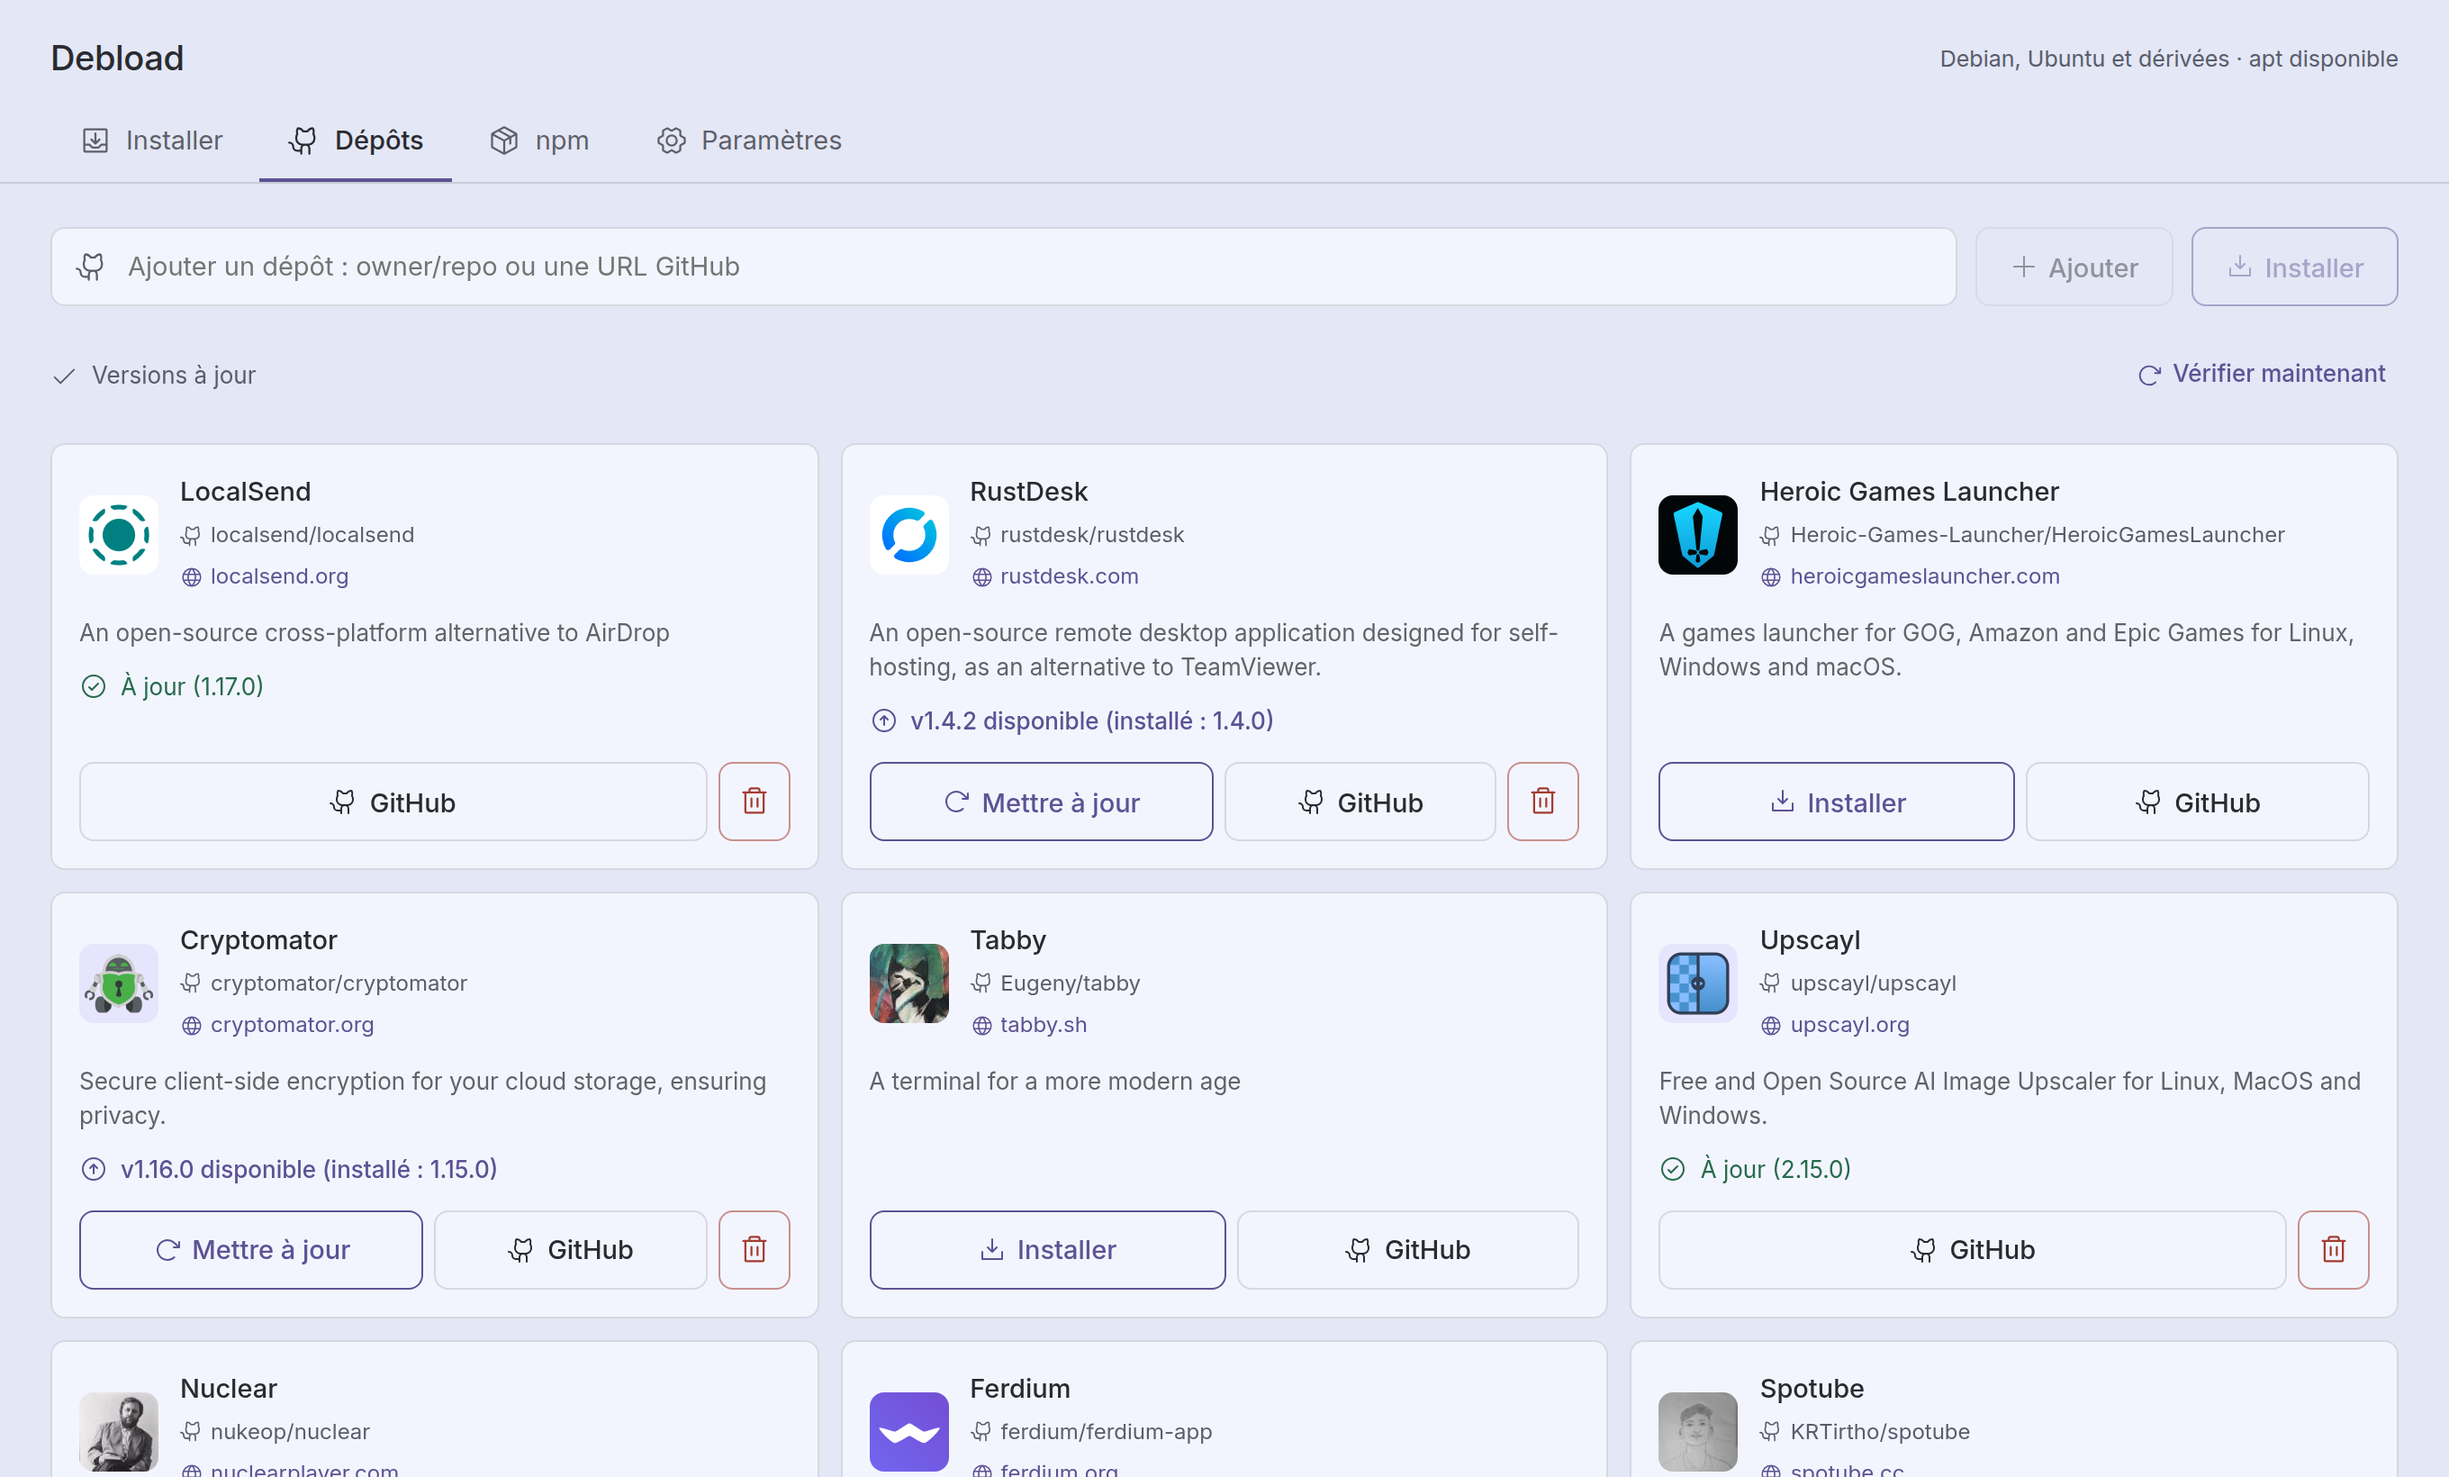
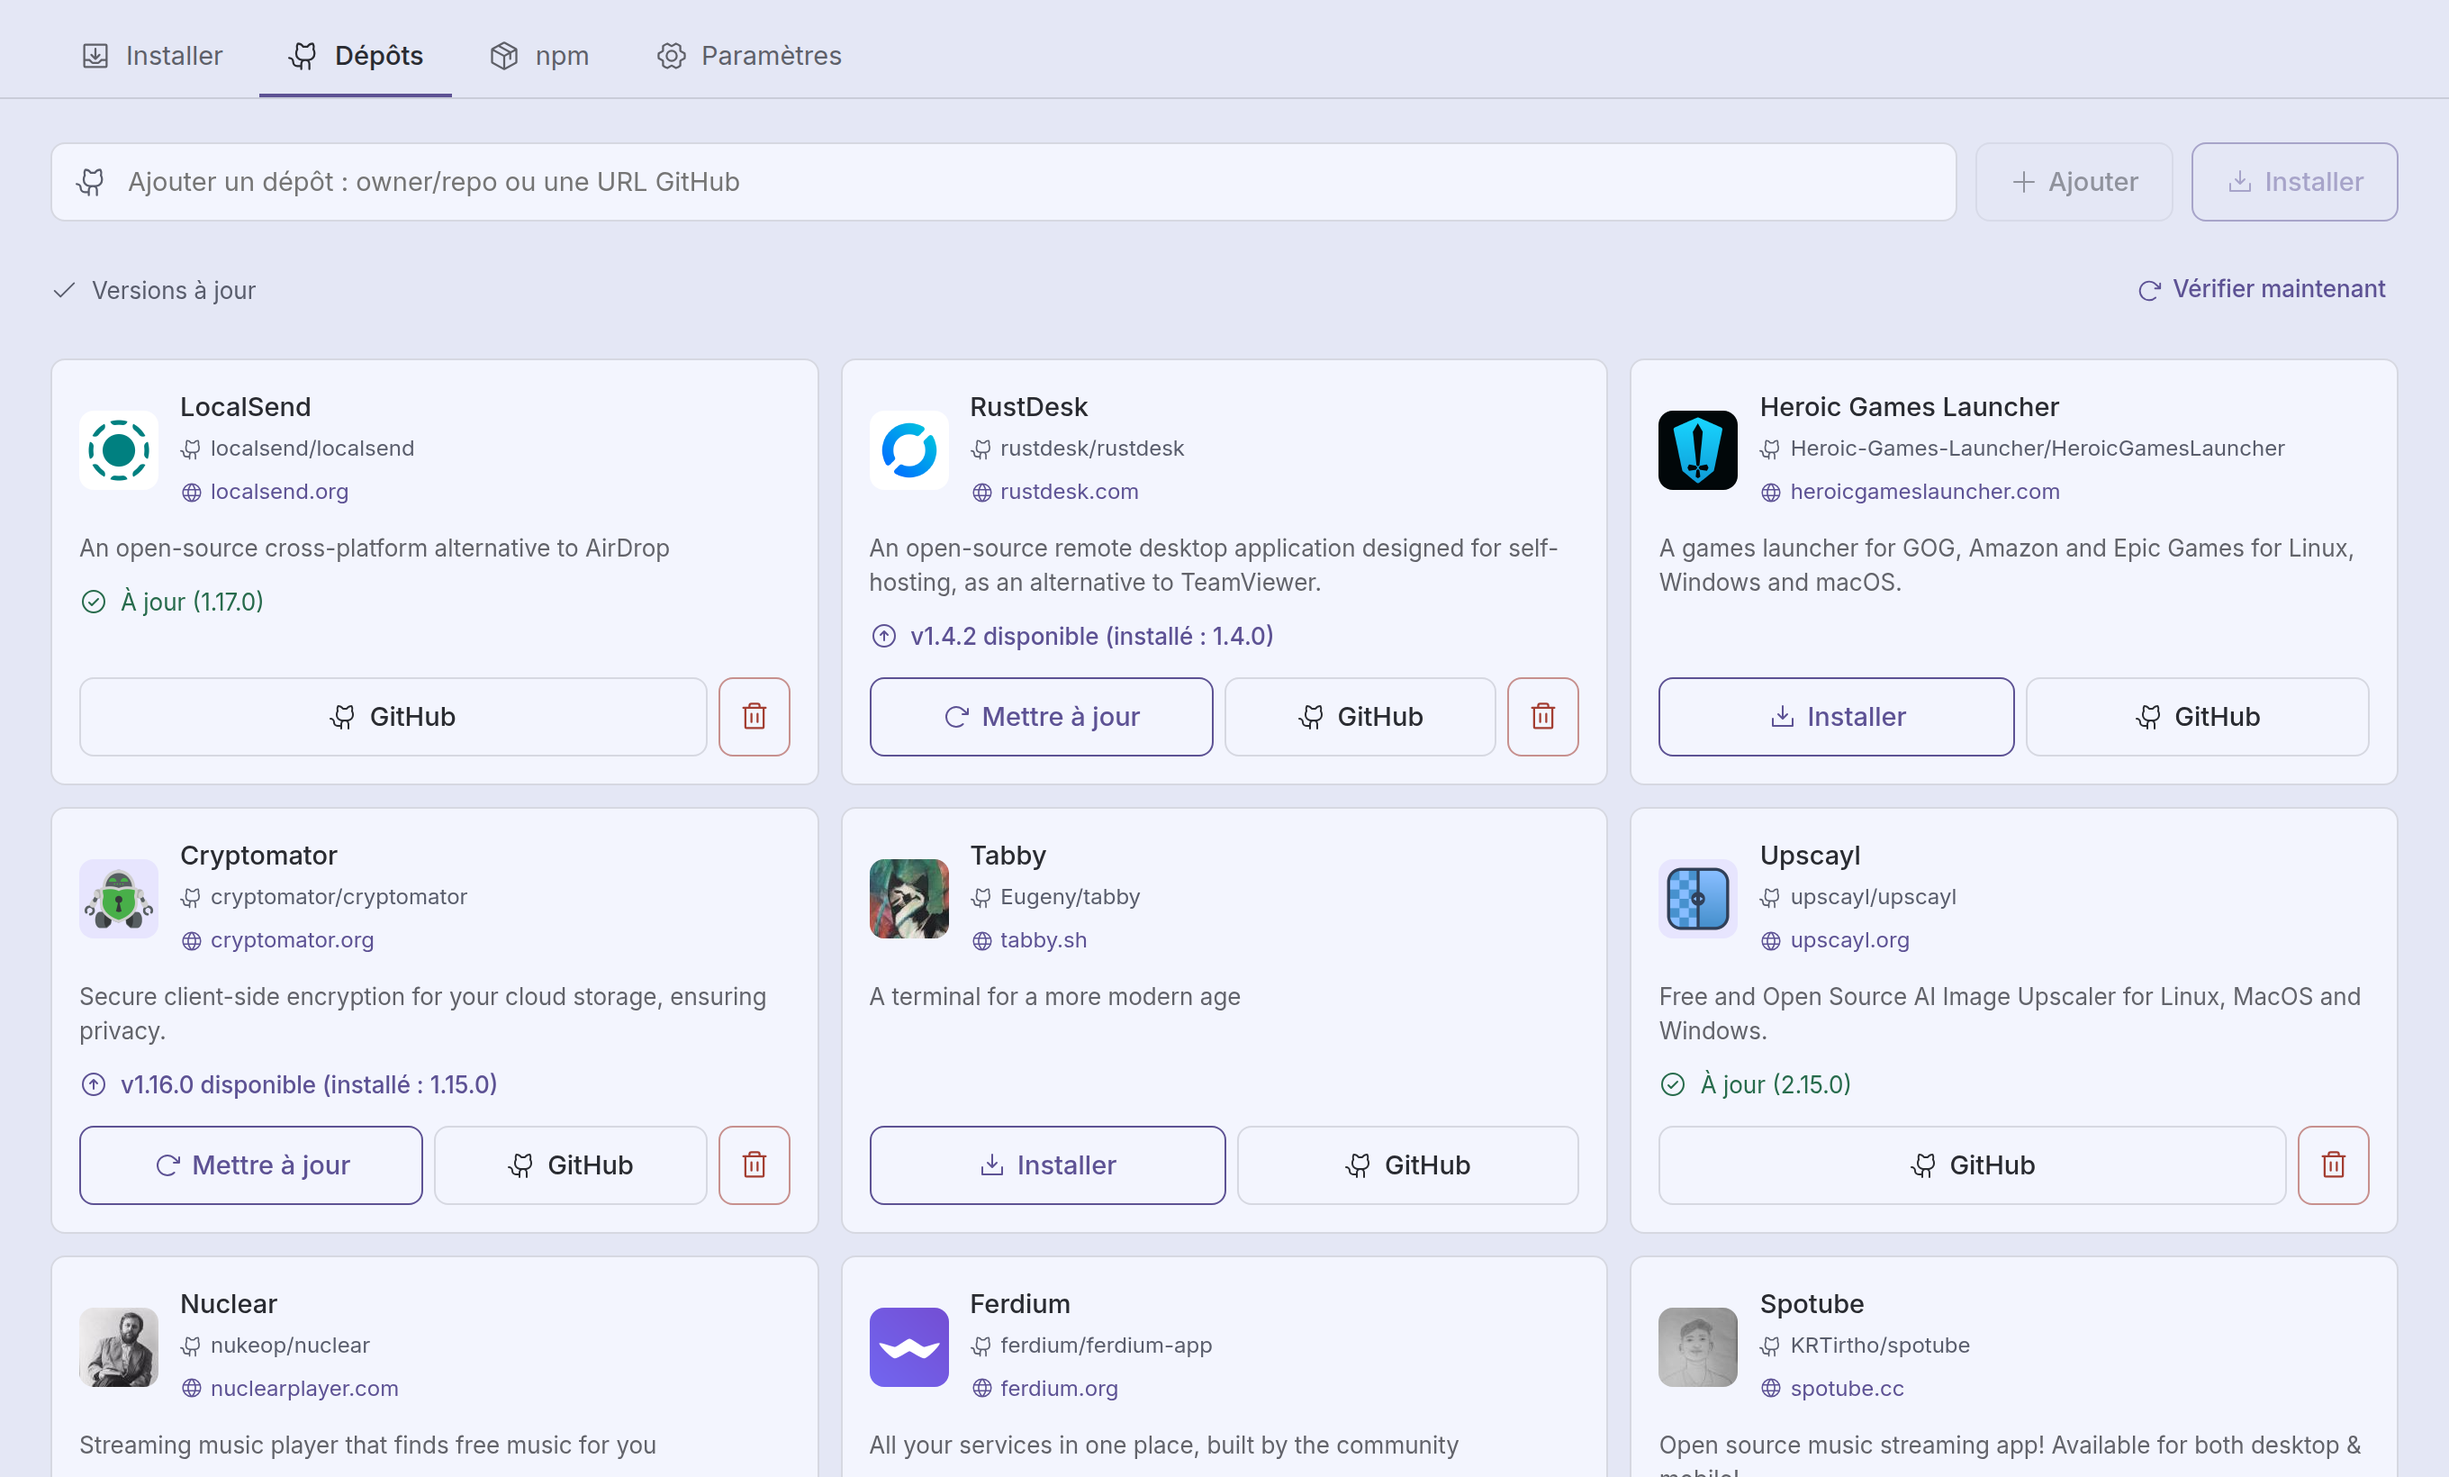
docs: captures et README à jour, sans le bandeau et avec le choix du thème
Claude-Session: https://claude.ai/code/session_01N6WiayjCrhPByJDTSFzrYk

diff --git a/README.md b/README.md
@@ -21,7 +21,7 @@
   <img src="docs/screenshots/depots.png" alt="Le catalogue de dépôts" width="100%">
 </p>
 
-Thème sombre ou clair, selon ton système :
+Thème sombre ou clair, au choix dans les paramètres :
 
 <p align="center">
   <img src="docs/screenshots/depots.png" alt="Thème sombre" width="49%">
@@ -55,7 +55,8 @@ Prends la dernière version pour ton système sur la [page des releases](https:/
 - Outils npm globaux (`typescript`, `pnpm`…), installés sans root
 - Désinstallation en un clic, seulement de ce que Debload a installé
 - Dépôts privés via ta session `gh`
-- Thème sombre et clair
+- Thème sombre, clair, ou celui du système
+- Les listes npm se chargent au fil du défilement
 
 ## Développement
 
